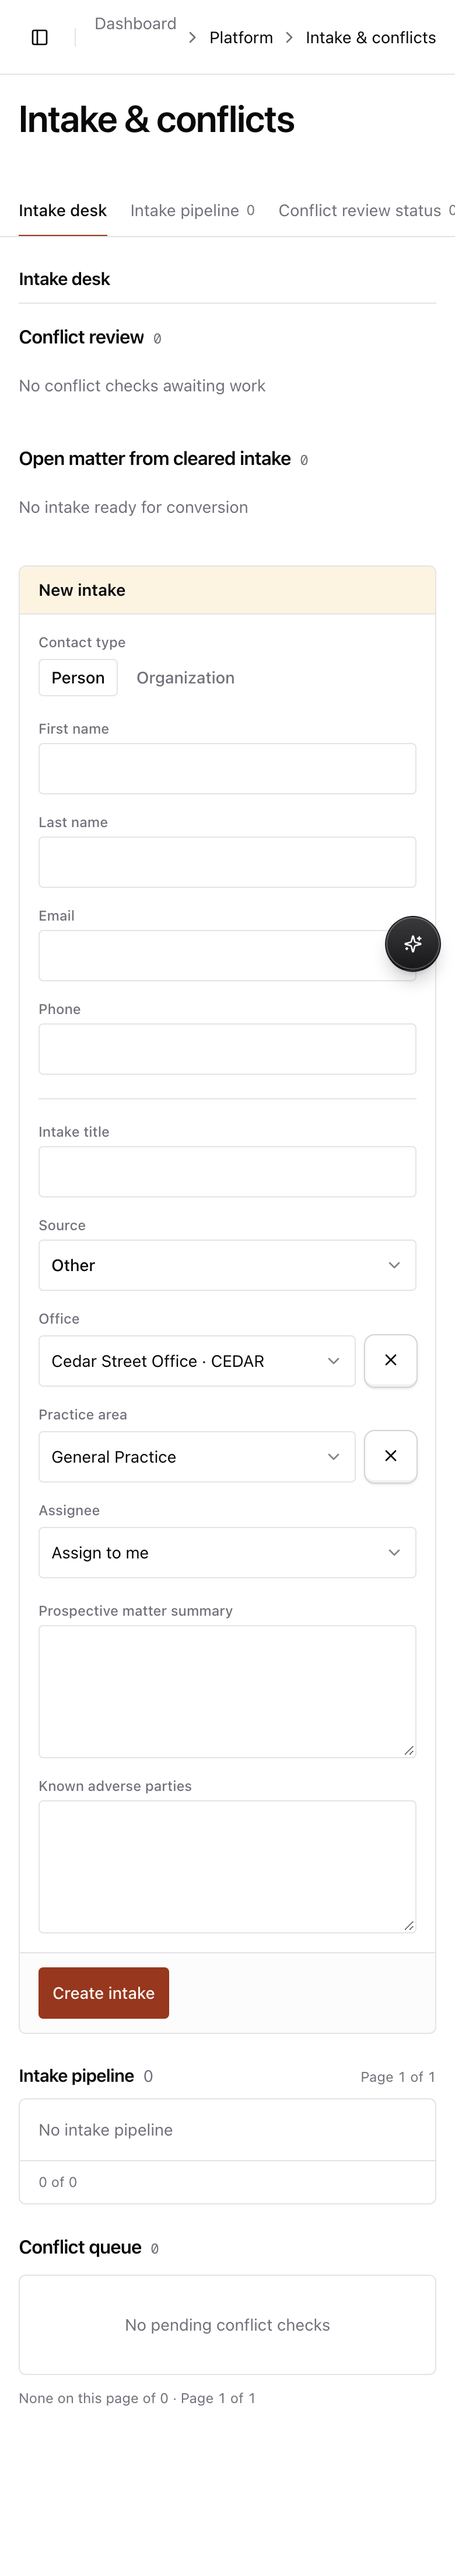
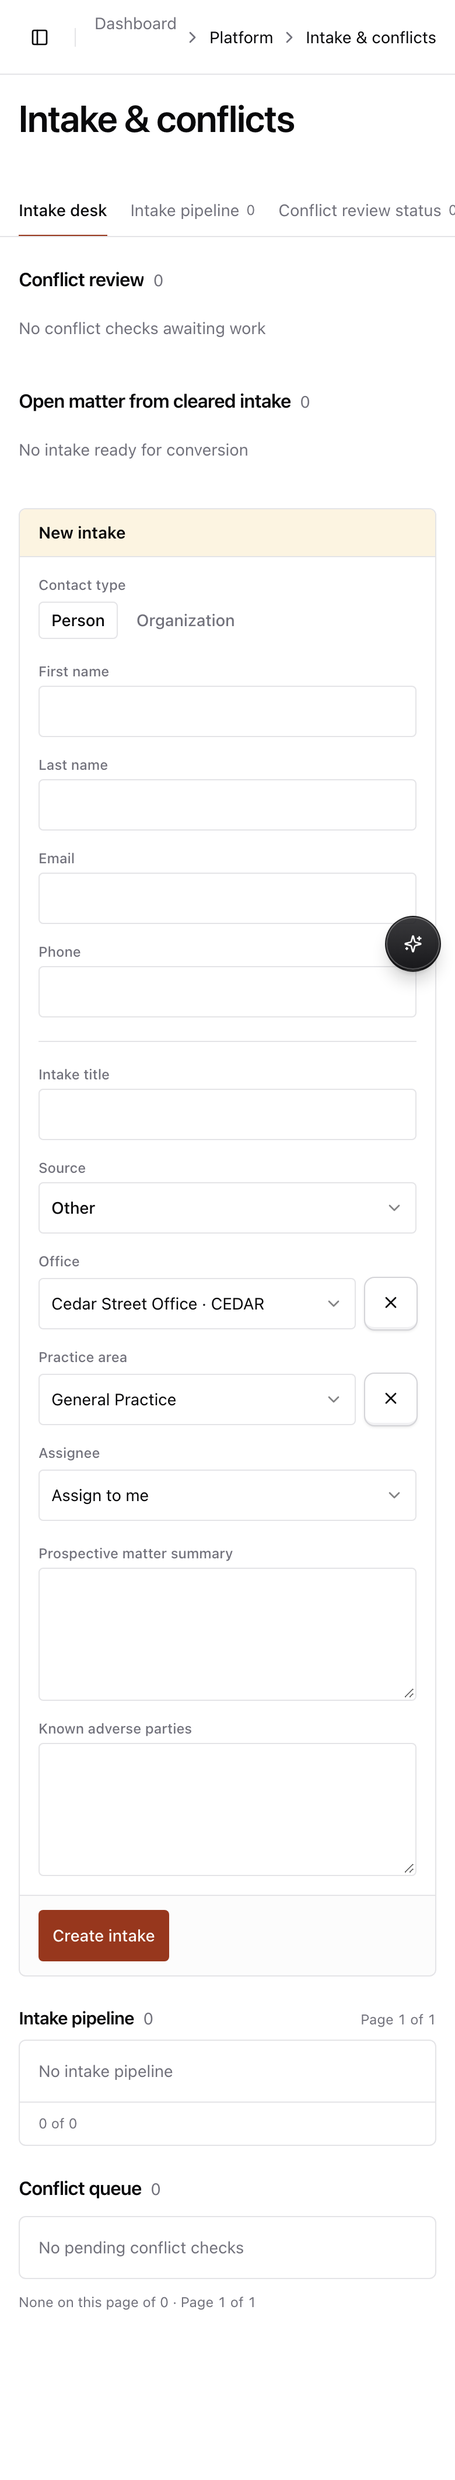
Law Firm: finish-review fixes
Contact page as a ruled facts table; the home page drops the repeated contact band and gives
email or the client portal as the primary action; authored empty results per section with no
box around an empty list; new intake folded behind its own disclosure with a header action;
link actions in ink, rust kept for the primary action; one pager format, hidden at zero; Today
counts in one compact row on phone; square attorney monograms and portal badge.

diff --git a/features/platform/billing/components/InvoiceMetadataRegister.tsx b/features/platform/billing/components/InvoiceMetadataRegister.tsx
@@ -34,13 +34,13 @@ export function InvoiceMetadataRegister({
           <span>Invoices</span>
           {register.success ? <span className="lf-figures text-sm font-normal text-muted-foreground">{register.total.toLocaleString()}</span> : null}
         </h2>
-        {register.success ? <span className="lf-figures text-xs text-muted-foreground">Newest first · page {register.pagination.page} of {register.pagination.pageCount}</span> : null}
+        {register.success && register.total > 0 ? <span className="text-xs text-muted-foreground">Newest first</span> : null}
       </header>
 
       {!register.success ? (
         <ErrorBanner>{register.error}</ErrorBanner>
       ) : (
-        <div className="min-w-0 overflow-x-auto rounded-[6px] border border-border bg-card">
+        <div className={register.items.length ? 'min-w-0 overflow-x-auto rounded-[6px] border border-border bg-card' : 'min-w-0 border-t border-border'}>
           {register.items.length ? (
             <table className="w-full min-w-[44rem] border-collapse text-sm">
               <thead>
@@ -64,23 +64,23 @@ export function InvoiceMetadataRegister({
                     : null
                   return (
                     <tr key={item.id} className="hover:bg-muted/40">
-                      <td className={`${td} whitespace-nowrap font-mono font-medium`}>
-                        {actionHref ? <Link href={actionHref} className="text-[var(--lf-rust-ink)] underline-offset-4 hover:underline">{number}</Link> : number}
-                        <span className="block font-sans text-xs font-normal text-muted-foreground">Created <time dateTime={createdAt ?? undefined}>{formatInstant(item.createdAt, timeZone, { includeTime: false, missing: 'unavailable' })}</time></span>
+                      <td className={`${td} lf-figures whitespace-nowrap font-medium`}>
+                        {actionHref ? <Link href={actionHref} className="underline decoration-border underline-offset-4 hover:decoration-foreground">{number}</Link> : number}
+                        <span className="block text-xs font-normal text-muted-foreground">Created <time dateTime={createdAt ?? undefined}>{formatInstant(item.createdAt, timeZone, { includeTime: false, missing: 'unavailable' })}</time></span>
                       </td>
                       <td className={`${td} max-w-[14rem] truncate`}>{item.clientName ?? 'Client restricted'}</td>
                       <td className={td}>{item.matterId ? <Link href={`/dashboard/platform/matters/${encodeURIComponent(item.matterId)}#invoices`} className="rounded-[2px] outline-none focus-visible:ring-2 focus-visible:ring-[var(--lf-rust)]/40"><FileLabel>{item.matterNumber ?? 'Matter'}</FileLabel></Link> : <span className="text-xs text-muted-foreground">Restricted</span>}</td>
                       <td className={td}><StatusText status={status} /></td>
-                      <td className={`${td} lf-figures whitespace-nowrap font-mono text-xs text-muted-foreground`}>{formatInstant(item.dueAt, timeZone, { includeTime: false, missing: 'Not set' })}</td>
-                      <td className={`${td} lf-figures whitespace-nowrap text-right font-mono font-semibold`}>{formatMoneyLabel(item.balanceDueMinor, item.currencyCode)}</td>
-                      <td className={`${td} lf-figures whitespace-nowrap text-right font-mono text-muted-foreground`}>{formatMoneyLabel(item.totalMinor, item.currencyCode)}</td>
+                      <td className={`${td} lf-figures whitespace-nowrap text-xs text-muted-foreground`}>{formatInstant(item.dueAt, timeZone, { includeTime: false, missing: 'Not set' })}</td>
+                      <td className={`${td} lf-figures whitespace-nowrap text-right font-semibold`}>{formatMoneyLabel(item.balanceDueMinor, item.currencyCode)}</td>
+                      <td className={`${td} lf-figures whitespace-nowrap text-right text-muted-foreground`}>{formatMoneyLabel(item.totalMinor, item.currencyCode)}</td>
                     </tr>
                   )
                 })}
               </tbody>
             </table>
           ) : (
-            <p role="status" className="px-4 py-4 text-sm text-muted-foreground">{register.total ? 'No invoices on this page' : 'No invoices yet'}</p>
+            <p role="status" className="py-3 text-sm text-muted-foreground">{register.total ? 'No invoices on this page' : 'No invoices yet'}</p>
           )}
           {register.total > 0 ? (
             <div className="border-t border-border px-4 py-2.5">
@@ -88,7 +88,7 @@ export function InvoiceMetadataRegister({
                 label="Invoice pages"
                 previous={paginationHrefs?.previous}
                 next={paginationHrefs?.next}
-                summary={`${register.pagination.loadedCount ? `${register.pagination.firstItem.toLocaleString()}–${register.pagination.lastItem.toLocaleString()}` : 'None on this page'} of ${register.total.toLocaleString()}`}
+                summary={`${register.pagination.firstItem.toLocaleString()}–${register.pagination.lastItem.toLocaleString()} of ${register.total.toLocaleString()}`}
               />
             </div>
           ) : null}

diff --git a/features/platform/components/PracticeSurface.tsx b/features/platform/components/PracticeSurface.tsx
@@ -33,7 +33,7 @@ export function RecordTable({ items, rowHref, actionPath, timeZone, anchor, empt
   compact?: boolean
   label?: string
 }) {
-  if (!items.length) return <p role="status" className="px-4 py-4 text-sm text-muted-foreground">{empty}</p>
+  if (!items.length) return <p role="status" className="py-3 text-sm text-muted-foreground">{empty}</p>
   return (
     <table aria-label={label} className="w-full min-w-0 border-collapse text-sm">
       <thead className="max-sm:sr-only">
@@ -65,12 +65,12 @@ export function RecordRow({ item, href, actionPath, timeZone, anchor, showKind =
         <span className="mt-1 flex min-w-0 items-center gap-2 text-xs text-muted-foreground">
           {number ? <FileLabel>{number}</FileLabel> : null}
           <span className="truncate">{rest}</span>
-          <span className={cn('lf-figures ml-auto shrink-0 whitespace-nowrap font-mono', compact ? '' : 'sm:hidden')}>{when}</span>
+          <span className={cn('lf-figures ml-auto shrink-0 whitespace-nowrap', compact ? '' : 'sm:hidden')}>{when}</span>
         </span>
       </td>
       {showKind ? <td className={cn(cellClass, 'whitespace-nowrap text-xs text-muted-foreground max-lg:hidden')}>{item.kind}</td> : null}
       <td className={cn(cellClass, 'max-sm:mt-2 max-sm:self-center')}><StatusText status={item.status} /></td>
-      {compact ? null : <td className={cn(cellClass, 'lf-figures whitespace-nowrap font-mono text-xs text-muted-foreground max-sm:hidden')}>{when}</td>}
+      {compact ? null : <td className={cn(cellClass, 'lf-figures whitespace-nowrap text-xs text-muted-foreground max-sm:hidden')}>{when}</td>}
       <td className={cn(cellClass, 'text-right max-sm:mt-2')}>
         <PracticeRowAction id={item.id} kind={item.kind} status={item.status} path={actionPath} canAct={item.canAct} timeZone={timeZone} />
       </td>
@@ -79,7 +79,7 @@ export function RecordRow({ item, href, actionPath, timeZone, anchor, showKind =
 }
 
 /** A heading row and the range in view above a framed ledger table. */
-export function RecordSection({ id, title, count, range, actions, children, footer, className }: { id?: string; title: ReactNode; count?: number; range?: ReactNode; actions?: ReactNode; children: ReactNode; footer?: ReactNode; className?: string }) {
+export function RecordSection({ id, title, count, range, actions, children, footer, className, empty = false }: { id?: string; title: ReactNode; count?: number; range?: ReactNode; actions?: ReactNode; children: ReactNode; footer?: ReactNode; className?: string; empty?: boolean }) {
   return (
     <section id={id} aria-labelledby={id ? `${id}-heading` : undefined} className={cn('min-w-0 scroll-mt-28', className)}>
       <header className="mb-2 flex min-w-0 flex-wrap items-baseline justify-between gap-x-4 gap-y-1">
@@ -92,10 +92,12 @@ export function RecordSection({ id, title, count, range, actions, children, foot
           {actions}
         </div>
       </header>
-      <div className="min-w-0 rounded-[6px] border border-border bg-card">
-        {children}
-        {footer ? <div className="border-t border-border px-4 py-2.5">{footer}</div> : null}
-      </div>
+      {empty ? <div className="min-w-0 border-t border-border">{children}</div> : (
+        <div className="min-w-0 rounded-[6px] border border-border bg-card">
+          {children}
+          {footer ? <div className="border-t border-border px-4 py-2.5">{footer}</div> : null}
+        </div>
+      )}
     </section>
   )
 }
@@ -142,16 +144,15 @@ export function QueuePanel({
       title={title}
       count={count}
       className={className}
-      range={paged && pagination ? `Page ${pagination.page} of ${pagination.pageCount}` : undefined}
+      empty={!items.length}
+      range={undefined}
       actions={!paged && showViewAll ? <Link href={viewAllHref} className={actionLinkClass}>View all<ArrowRight className="size-3.5" aria-hidden="true" /></Link> : undefined}
-      footer={pagination && paginationHrefs ? (
+      footer={pagination && paginationHrefs && (authorizedTotal ?? 0) > 0 ? (
         <Pager
           label={`${title} pages`}
           previous={paginationHrefs.previous}
           next={paginationHrefs.next}
-          summary={pagination.loadedCount
-            ? `${pagination.firstItem.toLocaleString()}–${pagination.lastItem.toLocaleString()} of ${(authorizedTotal ?? 0).toLocaleString()}`
-            : `0 of ${(authorizedTotal ?? 0).toLocaleString()}`}
+          summary={`${pagination.firstItem.toLocaleString()}–${pagination.lastItem.toLocaleString()} of ${(authorizedTotal ?? 0).toLocaleString()}`}
         />
       ) : undefined}
     >

diff --git a/features/storefront/screens/ContactPage.tsx b/features/storefront/screens/ContactPage.tsx
@@ -7,25 +7,15 @@ export async function generateMetadata() { return firmMetadata('Contact') }
 export default async function ContactPage() {
   const settings = await getStorefrontSettings()
   return <PublicPage><div className="sf-shell sf-page">
-    <header className="sf-page__head"><h1 className="sf-title">Contact</h1><p className="sf-label">{settings.firmName || 'Contact'}</p></header>
-    <div className="grid gap-4 lg:grid-cols-3">
-      <section className="sf-card" aria-labelledby="contact-new"><div className="sf-card__body grid h-full content-start gap-4">
-        <h2 id="contact-new" className="sf-h3">Consultations</h2>
-        {settings.bookingEnabled ? <div className="sf-track"><Link href="/practice-areas" className="sf-pill sf-pill--primary">Request a consultation</Link></div> : <p className="sf-muted text-sm">Consultations are not booked online. Write to the firm using the public contact.</p>}
-      </div></section>
-      <section id="existing-clients" className="sf-card scroll-mt-24" aria-labelledby="contact-existing"><div className="sf-card__body grid h-full content-start gap-4">
-        <h2 id="contact-existing" className="sf-h3">Existing clients</h2>
-        <div className="sf-track"><Link href="/portal" className="sf-pill sf-pill--raised">Open portal</Link><Link href="/portal/accept" className="sf-pill">Use invitation</Link></div>
-        <div className="grid gap-1 text-sm leading-6">
-          <p className="font-medium">New invitation</p>
-          {settings.supportEmail ? <><a className="sf-link break-all" href={`mailto:${settings.supportEmail}?subject=${encodeURIComponent('Client portal invitation request')}`}>{settings.supportEmail}</a><p className="sf-muted">Send your name only, not matter details. Invitations go only to the address the firm has on file.</p></> : <p className="sf-muted">Ask your attorney using the contact details in your engagement materials.</p>}
-        </div>
-      </div></section>
-      <section className="sf-card" aria-labelledby="contact-public"><div className="sf-card__body grid h-full content-start gap-4">
-        <h2 id="contact-public" className="sf-h3">Public contact</h2>
-        {settings.supportEmail ? <a className="sf-link break-all text-base" href={`mailto:${settings.supportEmail}`}>{settings.supportEmail}</a> : <p className="sf-muted text-sm">No public phone or email is configured.</p>}
-      </div></section>
+    <header className="sf-page__head"><h1 className="sf-title">Contact</h1>{settings.firmName ? <p className="sf-label">{settings.firmName}</p> : null}</header>
+    <div className="grid max-w-3xl gap-10">
+      <dl className="sf-facts" aria-label="How to reach the firm">
+        <div><dt>Consultations</dt><dd>{settings.bookingEnabled ? <Link href="/practice-areas" className="sf-link">Request a consultation</Link> : 'Not booked online'}</dd></div>
+        <div><dt>Email</dt><dd>{settings.supportEmail ? <a className="sf-link break-all" href={`mailto:${settings.supportEmail}`}>{settings.supportEmail}</a> : <span className="sf-muted">Not listed online</span>}</dd></div>
+        <div><dt>Existing clients</dt><dd className="flex flex-wrap gap-x-5 gap-y-1"><Link href="/portal" className="sf-link">Open the client portal</Link><Link href="/portal/accept" className="sf-link">Use an invitation</Link></dd></div>
+        <div id="existing-clients" className="scroll-mt-24"><dt>New portal invitation</dt><dd>{settings.supportEmail ? <><a className="sf-link break-all" href={`mailto:${settings.supportEmail}?subject=${encodeURIComponent('Client portal invitation request')}`}>Ask by email</a><span className="sf-muted mt-1 block font-normal">Send your name only, not matter details. Invitations go only to the address the firm has on file.</span></> : <span className="sf-muted">Ask your attorney using the contact details in your engagement materials.</span>}</dd></div>
+      </dl>
+      <p role="note" className="sf-notice">No legal advice or representation. Do not send confidential, sensitive or time-critical information here. Not for emergencies or deadline protection.</p>
     </div>
-    <p role="note" className="sf-notice mt-8 max-w-3xl">No legal advice or representation. Do not send confidential, sensitive or time-critical information here. Not for emergencies or deadline protection.</p>
   </div></PublicPage>
 }

diff --git a/features/storefront/screens/ServicePages.tsx b/features/storefront/screens/ServicePages.tsx
@@ -54,11 +54,11 @@ export async function HomePage() {
           {settings.isLocalFictional ? <p className="sf-fine">Fictional local workspace</p> : null}
           <dl className="sf-hero__facts">
             <div><dt>Consultations</dt><dd>{settings.bookingEnabled ? 'Request a time online' : 'Not taken online'}</dd></div>
-            {settings.supportEmail ? <div><dt>Email</dt><dd><a className="sf-link" href={`mailto:${settings.supportEmail}`}>{settings.supportEmail}</a></dd></div> : null}
+            <div><dt>Email</dt><dd>{settings.supportEmail ? <a className="sf-link" href={`mailto:${settings.supportEmail}`}>{settings.supportEmail}</a> : <span className="sf-muted">Not listed online</span>}</dd></div>
             <div><dt>Clients</dt><dd><Link className="sf-link" href="/portal">Client portal</Link></dd></div>
           </dl>
           <div className="sf-track">
-            {settings.bookingEnabled ? <><Link href="/practice-areas" className="sf-pill sf-pill--primary sf-pill--lg">Request a consultation</Link><Link href="/account" className="sf-pill sf-pill--raised sf-pill--lg">Your appointments</Link></> : <Link href="/contact" className="sf-pill sf-pill--primary sf-pill--lg">Contact the firm</Link>}
+            {settings.bookingEnabled ? <><Link href="/practice-areas" className="sf-pill sf-pill--primary sf-pill--lg">Request a consultation</Link><Link href="/account" className="sf-pill sf-pill--raised sf-pill--lg">Your appointments</Link></> : settings.supportEmail ? <a href={`mailto:${settings.supportEmail}`} className="sf-pill sf-pill--primary sf-pill--lg">Email the firm</a> : <Link href="/portal" className="sf-pill sf-pill--primary sf-pill--lg">Client portal</Link>}
           </div>
         </div>
         <aside className="sf-hero__seal" aria-labelledby="home-portal">
@@ -82,18 +82,6 @@ export async function HomePage() {
         <div className="sf-prose sf-prose--lead"><p>{about}</p></div>
       </section> : null}
 
-      <section className="sf-section" aria-labelledby="home-contact">
-        <div className="sf-card sf-card--ink">
-          <div className="sf-card__body grid gap-5 md:grid-cols-[minmax(0,1fr)_auto] md:items-end">
-            <div className="grid gap-2">
-              <h2 id="home-contact" className="sf-h2">Contact {settings.firmName || NEUTRAL_FIRM_NAME}</h2>
-              {settings.supportEmail ? <a className="text-base underline underline-offset-4" href={`mailto:${settings.supportEmail}`}>{settings.supportEmail}</a> : null}
-              <p className="sf-muted text-sm">Not for emergencies or deadline protection.</p>
-            </div>
-            <div className="sf-track"><Link href="/contact" className="sf-pill sf-pill--raised">Contact details</Link></div>
-          </div>
-        </div>
-      </section>
     </div>
   </PublicPage>
 }

diff --git a/features/platform/desks/OperatingDesk.tsx b/features/platform/desks/OperatingDesk.tsx
@@ -11,6 +11,7 @@ import { getPracticeWorkspace } from '@/features/platform/operations/actions'
 import { getWorkspaceRegister } from '@/features/platform/operations/actions/getWorkspaceRegister'
 import { registerHref, type RegisterParams } from '@/features/platform/operations/lib/workspaceRegister'
 import type { PracticeOverviewQueueItem, PracticeWorkspaceSection } from '@/features/platform/operations/types'
+import { sectionEmptyCopy } from '@/features/platform/lib/emptyCopy'
 import { DeskCreatePanel } from './DeskCreatePanel'
 import { LocalTimerClient } from './TimerControl'
 
@@ -162,20 +163,18 @@ function DeskLane({ desk, section, timeZone, paginationHrefs }: { desk: DeskKind
       id={section.key}
       title={section.title}
       count={section.total}
-      range={section.pagination ? `Page ${section.pagination.page} of ${section.pagination.pageCount}` : undefined}
+      empty={!section.items.length}
       actions={section.total ? <Link href={registerHref(desk, { view: section.key })} className={actionLinkClass}>Search all<ArrowRight className="size-3.5" aria-hidden="true" /></Link> : undefined}
-      footer={section.pagination && paginationHrefs ? (
+      footer={section.pagination && paginationHrefs && section.total > 0 ? (
         <Pager
           label={`${section.title} pages`}
           previous={paginationHrefs.previous}
           next={paginationHrefs.next}
-          summary={section.pagination.loadedCount
-            ? `${section.pagination.firstItem.toLocaleString()}–${section.pagination.lastItem.toLocaleString()} of ${section.total.toLocaleString()}`
-            : `0 of ${section.total.toLocaleString()}`}
+          summary={`${section.pagination.firstItem.toLocaleString()}–${section.pagination.lastItem.toLocaleString()} of ${section.total.toLocaleString()}`}
         />
       ) : undefined}
     >
-      <RecordTable items={section.items} rowHref={(item) => deskItemHref(desk, item)} actionPath={`/dashboard/platform/${desk}`} timeZone={timeZone} anchor={section.key} empty={`No ${section.title.toLowerCase()}`} showKind={kinds.size > 1} label={section.title} />
+      <RecordTable items={section.items} rowHref={(item) => deskItemHref(desk, item)} actionPath={`/dashboard/platform/${desk}`} timeZone={timeZone} anchor={section.key} empty={sectionEmptyCopy(section.key)} showKind={kinds.size > 1} label={section.title} />
     </RecordSection>
   )
 }

diff --git a/features/platform/today/screens/TodayPage.tsx b/features/platform/today/screens/TodayPage.tsx
@@ -28,15 +28,15 @@ export async function TodayPage() {
       ) : (
         <div className="space-y-8">
           {response.data.metrics.length ? (
-            <nav aria-label="Open obligations" className="grid grid-cols-2 border-y border-border sm:grid-cols-4 xl:grid-cols-[repeat(auto-fit,minmax(8.5rem,1fr))]">
+            <nav aria-label="Open obligations" className="grid grid-cols-4 border-y border-border xl:grid-cols-[repeat(auto-fit,minmax(8.5rem,1fr))]">
               {response.data.metrics.map((metric) => (
                 <Link
                   key={metric.key}
                   href={metric.href}
-                  className="group min-w-0 border-b border-border px-3 py-3 outline-none transition-colors hover:bg-[var(--lf-manila)] focus-visible:ring-2 focus-visible:ring-inset focus-visible:ring-[var(--lf-rust)]/40 max-sm:odd:border-r sm:border-r sm:last:border-r-0 xl:border-b-0"
+                  className="group min-w-0 border-b border-r border-border px-2 py-2 outline-none transition-colors hover:bg-[var(--lf-manila)] focus-visible:ring-2 focus-visible:ring-inset focus-visible:ring-[var(--lf-rust)]/40 sm:px-3 sm:py-3 [&:nth-child(4n)]:border-r-0 xl:border-b-0 xl:[&:nth-child(4n)]:border-r xl:last:border-r-0"
                 >
-                  <span className="block truncate text-xs text-muted-foreground group-hover:text-foreground">{metric.label}</span>
-                  <span className={cn('lf-figures mt-1 block truncate text-2xl font-semibold tracking-tight', metric.value ? 'text-foreground' : 'text-muted-foreground/60')}>{metric.value.toLocaleString()}</span>
+                  <span className="block text-[11px] leading-tight text-muted-foreground group-hover:text-foreground sm:truncate sm:text-xs">{metric.label}</span>
+                  <span className={cn('lf-figures mt-1 block truncate text-lg font-semibold tracking-tight sm:text-2xl', metric.value ? 'text-foreground' : 'text-muted-foreground/60')}>{metric.value.toLocaleString()}</span>
                 </Link>
               ))}
             </nav>

diff --git a/features/platform/components/ui.tsx b/features/platform/components/ui.tsx
@@ -28,7 +28,7 @@ export const pillPrimaryClass = cn('inline-flex h-8 shrink-0 items-center justif
 export const pillDangerClass = 'inline-flex h-8 shrink-0 items-center justify-center gap-1.5 whitespace-nowrap rounded-[4px] border border-destructive/40 bg-background px-3 text-sm font-medium text-destructive outline-none transition-colors hover:bg-destructive/5 focus-visible:ring-2 focus-visible:ring-destructive/40 disabled:pointer-events-none disabled:opacity-50'
 
 /** Text link styled as an action ("Search all", "Open"). */
-export const actionLinkClass = cn('inline-flex shrink-0 items-center gap-1 whitespace-nowrap rounded-[2px] text-sm font-medium text-[var(--lf-rust-ink)] underline-offset-4 hover:underline', focusRing)
+export const actionLinkClass = cn('inline-flex shrink-0 items-center gap-1 whitespace-nowrap rounded-[2px] text-sm font-medium text-foreground underline decoration-border underline-offset-4 hover:decoration-foreground', focusRing)
 
 /** Segmented choice: a joined row of square options; pair each label span with `segmentItemClass`. */
 export const segmentClass = 'inline-flex max-w-full flex-wrap overflow-hidden rounded-[4px] border border-input bg-background'
@@ -96,7 +96,7 @@ export function splitFileNumber(text: string): { number: string | null; rest: st
 
 /** Matter number as a typed file-jacket label: the platform's signature mark. */
 export function FileLabel({ children, className }: { children: ReactNode; className?: string }) {
-  return <span className={cn('lf-figures inline-flex h-5 shrink-0 items-center rounded-[2px] border border-[var(--lf-manila-line)] bg-[var(--lf-manila)] px-1.5 font-mono text-[11px] font-medium leading-none tracking-tight text-[var(--lf-rust-ink)]', className)}>{children}</span>
+  return <span className={cn('lf-figures inline-flex h-5 shrink-0 items-center rounded-[2px] border border-[var(--lf-manila-line)] bg-[var(--lf-manila)] px-1.5 text-[11px] font-semibold leading-none text-foreground', className)}>{children}</span>
 }
 
 /** Title with its status on the same line. */

diff --git a/features/platform/workspaces/WorkspaceScreen.tsx b/features/platform/workspaces/WorkspaceScreen.tsx
@@ -1,4 +1,8 @@
+import Link from 'next/link'
+import { Plus } from 'lucide-react'
 import { CommandDeck, type CommandDeckPanel } from '@/features/platform/components/CommandDeck'
+import { pillPrimaryClass } from '@/features/platform/components/ui'
+import { sectionEmptyCopy } from '@/features/platform/lib/emptyCopy'
 import {
   PracticeLoadError,
   PracticePage,
@@ -139,10 +143,14 @@ export async function WorkspaceScreen({ category, intakePage, conflictPage, invo
       { key: 'policies', label: 'Access by matter', content: <PortalPolicyDirectory params={portalParams} /> },
     ] : []),
   ]
-  const panelFirst = (['intake', 'reports', 'data', 'integrations'] as WorkspaceCategory[]).includes(category)
+  const panelFirst = (['reports', 'data', 'integrations'] as WorkspaceCategory[]).includes(category)
 
   return (
-    <PracticePage title={definition.title} description={definition.description}>
+    <PracticePage
+      title={definition.title}
+      description={definition.description}
+      actions={category === 'intake' ? <Link href="#new-intake" className={pillPrimaryClass}><Plus className="size-4" aria-hidden="true" />New intake</Link> : undefined}
+    >
       {!response.success ? (
         <PracticeLoadError message={response.error} />
       ) : (
@@ -201,7 +209,7 @@ export async function WorkspaceScreen({ category, intakePage, conflictPage, invo
                         ? `${sectionDescription} ${previewCopy.description}`.trim()
                         : sectionDescription}
                       items={section.items}
-                      empty={`No ${sectionTitle.toLowerCase()}`}
+                      empty={sectionEmptyCopy(section.key)}
                       viewAllHref={category === 'reports' ? `/dashboard/platform/${section.key}` : registerHref(category, { view: section.key })}
                       showViewAll={section.total > 0 && (category === 'reports' || Boolean(registerDefinition(category, section.key)))}
                       anchor={section.key}

diff --git a/features/platform/lib/emptyCopy.ts b/features/platform/lib/emptyCopy.ts
@@ -1,0 +1,44 @@
+// Authored empty results for workspace sections, keyed by section key. A section that is
+// not listed reads "Nothing here yet" rather than a "No <section title>" construction.
+const emptyCopy: Record<string, string> = {
+  accounts: 'No accounts yet',
+  active: 'No open matters',
+  conflicts: 'No conflict checks waiting',
+  connections: 'No connections yet',
+  consultations: 'No consultations booked',
+  credentials: 'No machine access to review',
+  deadlines: 'No deadlines awaiting review',
+  delivery: 'No deliveries need follow-up',
+  directory: 'No contacts yet',
+  docket: 'No docket activity',
+  documents: 'No documents in progress',
+  drafts: 'No drafts waiting for review',
+  'eligible-contacts': 'No contacts can be invited yet',
+  'eligible-matters': 'No matters to share',
+  evidence: 'No retention evidence recorded',
+  expenses: 'No expenses awaiting approval',
+  exports: 'No exports yet',
+  grants: 'No client has matter access yet',
+  holds: 'No active legal holds',
+  invoices: 'No bills need action',
+  ledgers: 'No client ledgers open',
+  links: 'No imported records',
+  payments: 'No payments or refunds recorded',
+  pipeline: 'No intakes in progress',
+  reconciliation: 'Nothing to reconcile',
+  relationships: 'No relationships recorded',
+  'shareable-documents': 'No documents marked shareable',
+  'shareable-invoices': 'No issued invoices to share',
+  'shareable-threads': 'No open conversations to share',
+  shares: 'Nothing shared with clients',
+  signatures: 'No signatures in progress',
+  tasks: 'No assigned work',
+  threads: 'No open conversations',
+  time: 'No time awaiting approval',
+  walls: 'No access decisions recorded',
+  webhooks: 'No webhook deliveries',
+}
+
+export function sectionEmptyCopy(key: string) {
+  return emptyCopy[key] ?? 'Nothing here yet'
+}

diff --git a/features/platform/matters/screens/MatterWorkspacePage.tsx b/features/platform/matters/screens/MatterWorkspacePage.tsx
@@ -5,6 +5,7 @@ import { PracticePage, PracticeStatus, SectionJumps } from '@/features/platform/
 import { EmptyState, ErrorBanner, FileLabel, Pager, Panel, StatusText, Track, statusLabel, trackItemClass } from '@/features/platform/components/ui'
 import type { WorkQueuePageInfo } from '@/features/platform/operations/lib/workQueuePagination'
 import { getMatterWorkspace } from '../actions/getMatterWorkspace'
+import { sectionEmptyCopy } from '@/features/platform/lib/emptyCopy'
 import { DeskCreatePanel } from '@/features/platform/desks/DeskCreatePanel'
 import { getFirmTimeZone } from '@/features/platform/lib/firmTimeZone'
 import { PracticeRowAction } from '@/features/platform/components/PracticeRowAction'
@@ -53,7 +54,7 @@ export async function MatterWorkspacePage({ matterId, teamPage = 1, partyPage = 
                     <span className="lf-figures text-sm text-muted-foreground">{count.toLocaleString()}</span>
                   </header>
                   <div className="min-w-0 overflow-hidden rounded-[6px] border border-border bg-card">
-                    {!section.rows.length ? <EmptyState className="px-4 py-3" title={`No ${section.title.toLowerCase()}`} /> : (
+                    {!section.rows.length ? <EmptyState className="px-4 py-3" title={sectionEmptyCopy(section.key)} /> : (
                       <ul className="divide-y divide-border">
                         {section.rows.map((row) => <li key={row.id} className="grid min-w-0 grid-cols-[minmax(0,1fr)_auto] items-center gap-x-4 px-4 py-2.5 hover:bg-muted/40">
                           <div className="min-w-0">

diff --git a/features/storefront/portal/screens/PortalPage.tsx b/features/storefront/portal/screens/PortalPage.tsx
@@ -67,7 +67,7 @@ export default async function PortalPage({ searchParams }: { searchParams: Promi
               return (
                 <li key={share.id}>
                   <Link href={`/portal/share/${share.id}`} className="sf-row grid-cols-[2.75rem_minmax(0,1fr)_auto]">
-                    <span className="row-span-2 grid size-10 place-items-center rounded-full bg-[var(--sf-tint)] text-[var(--color-accent)]"><Icon className="size-4" aria-hidden="true" /></span>
+                    <span className="row-span-2 grid size-10 place-items-center rounded-[2px] bg-[var(--sf-tint)] text-[var(--color-accent)]"><Icon className="size-4" aria-hidden="true" /></span>
                     <span className="sf-row__title col-start-2"><span>{share.resourceTitle ? (share.resourceType === 'invoice' ? `Invoice ${share.resourceTitle}` : share.resourceTitle) : labels[share.resourceType] ?? 'Shared item'}</span></span>
                     <span className="sf-row__meta col-start-2 truncate" style={{ paddingLeft: 0 }}>{labels[share.resourceType] ?? 'Shared item'} · {share.matterNumber} · {share.matterTitle}</span>
                     <ArrowRight className="col-start-3 row-span-2 row-start-1 size-4 text-[var(--color-muted)]" aria-hidden="true" />

diff --git a/features/storefront/screens/AttorneysPage.tsx b/features/storefront/screens/AttorneysPage.tsx
@@ -18,7 +18,7 @@ export default async function AttorneysPage() {
       {attorneys === null ? <p role="alert" className="sf-notice sf-notice--plain">Attorney profiles could not be loaded. <Link className="sf-link" href="/attorneys">Try again</Link></p>
         : attorneys.length ? <ul className="grid gap-4 sm:grid-cols-2 lg:grid-cols-3">
         {attorneys.map((person) => <li key={person.slug}><Link href={`/attorneys/${encodeURIComponent(person.slug)}`} className="sf-card grid h-full content-start gap-4 p-5 no-underline transition-colors hover:border-[var(--color-ink)]">
-          <span aria-hidden="true" className="grid size-14 place-items-center rounded-full bg-[var(--sf-tint)] font-[family-name:var(--font-display)] text-xl">{initialsOf(person.name)}</span>
+          <span aria-hidden="true" className="grid size-14 place-items-center rounded-[2px] bg-[var(--sf-tint)] font-[family-name:var(--font-display)] text-xl">{initialsOf(person.name)}</span>
           <span className="grid gap-1"><span className="sf-h3">{person.name}</span><span className="sf-muted text-sm">{[person.title, person.focus].filter(Boolean).join(' · ')}</span></span>
         </Link></li>)}
       </ul> : <div className="sf-empty">
